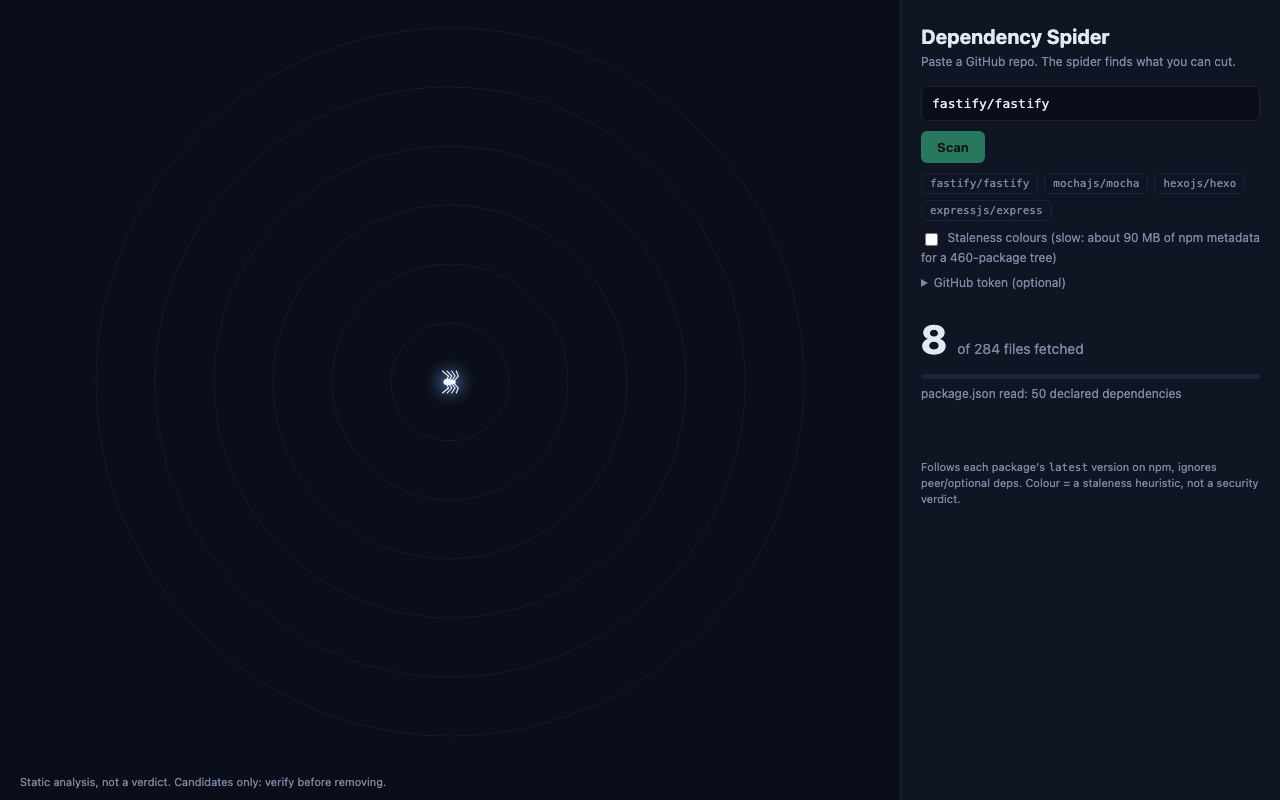
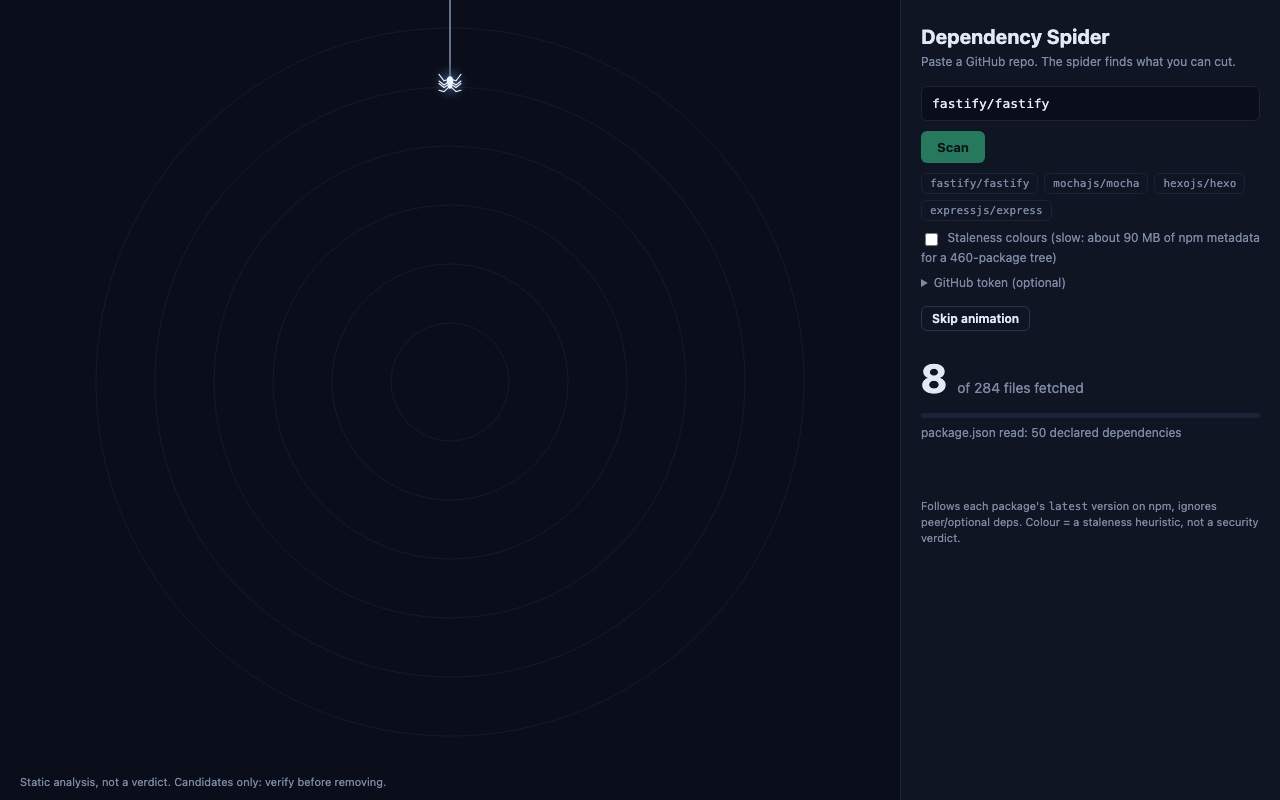
Docs sync for the animation rework: incremental layout, choreography, two-layer canvas, perf link; delete unused layout.js; regenerate screenshots

diff --git a/src/choreo.js b/src/choreo.js
@@ -28,7 +28,7 @@ const hash = (s) => { let h = 2166136261; for (let i = 0; i < s.length; i++) { h
 
 // Fixed radial layout that can be built incrementally. A package gets an angular slot inside its parent's wedge
 // (equal share per child announced by that parent) the moment it is delivered, and keeps it. This is a
-// different trade-off from layout.js (sectors by subtree size, needs the finished tree): here the spider can start
+// different trade-off from a layout by subtree size (which needs the finished tree): here the spider can start
 // building while npm is still answering, and nothing ever re-flows.
 export class WebLayout {
   constructor(rootNames) {

diff --git a/docs/WALKTHROUGH.md b/docs/WALKTHROUGH.md
@@ -20,21 +20,21 @@ You paste a GitHub repo. The app reads `package.json` and up to 300 source files
 
 **`graph.js`.** The math. `reachable` finds everything reachable from the manifest; `shedReport` computes, per candidate and for all together, how many packages disappear; `uninstallCommand` builds the `npm uninstall` lines.
 
-**`layout.js`.** A pure function that places each package on a ring by depth and gives each subtree an angular sector proportional to its size.
+**`choreo.js`.** The animation's brain, pure (no DOM, no clock). Input: the packages in the order the registry crawl delivers them, plus the canvas geometry. `WebLayout` gives each package a fixed slot inside its parent's wedge the moment it arrives, and never moves it. `Planner` decides where the spider goes next using only delivered packages and only existing threads: lay a thread to a waiting child, else walk back along threads to the nearest anchored package with work, spokes (declared dependencies) first; with nothing ready it returns nothing and the spider waits. Output: steps (`drop`, `lay`, `return`) with paths, speeds and rests; `planWeb` builds a whole timeline for tests. It exists so the part that decides what the spider does can be unit-tested without a canvas.
 
-**`viz.js`.** The canvas: rings, nodes easing into position, the spider sprite, the prune animation, the share image. Glow comes from pre-rendered sprites (no per-node `shadowBlur`), it handles `devicePixelRatio`, and it respects reduced motion.
+**`viz.js`.** Draws what `choreo.js` decides, on two stacked canvases: a static layer (rings, anchored threads and packages) that is only drawn into when the spider anchors something or packages are removed, and a small live layer (spider, thread being laid, glints, snip flashes, falling packages) cleared with a dirty rectangle. Threads are batched in `Path2D` strokes and packages in 16 colour buckets; no `shadowBlur` or filters; DPR clamped to 2; time-based with a clamped delta; fixed effect pools; idle in a hidden tab. It also runs the prune choreography and builds the share image from both layers.
 
 **`pipeline.js`.** Orchestration shared by the browser and the Node scripts: URL, file list, `package.json`, files, imports, crawl, classification, peer-dependency check, shed numbers. It emits progress events the UI listens to.
 
 **`report.js`, `cards.js`.** Text output (plain report, PR description) and the candidate card, including the "cannot see packages loaded by name at runtime" caveat under every candidate and the lower-confidence badge.
 
-**`app.js`.** The browser wiring: form, progress panel, cards, buttons (copy, PR text, download image), error messages and resetting state between scans.
+**`app.js`.** The browser wiring: form, progress panel (written at most 10 times a second from what the spider has built), cards, buttons (copy, PR text, download image, Skip animation, Replay animation), error messages and resetting state between scans. It also plays a recorded scan (`?fixture=`), the same path Replay uses.
 
-**`scripts/`.** `acceptance.mjs` (checks known repos), `validate.mjs` (compares with depcheck on 13 repos), `depcheck-installed.mjs` (repeats the comparison after installing dependencies).
+**`scripts/`.** `acceptance.mjs` (checks known repos), `validate.mjs` (compares with depcheck on 13 repos), `depcheck-installed.mjs` (repeats the comparison after installing dependencies), `record-fixture.mjs` and `perf.mjs` (record a scan, then measure animation frame times on it without the network). `src/fixture.js` turns a result into JSON and back.
 
 ## The five design decisions that matter
 
-1. **Fixed radial layout, not a force simulation.** My earlier attempt with a force-directed layout exploded at 400+ nodes. A fixed layout (ring = depth, sector size = subtree size) is deterministic, costs one pass, and never jitters. Nodes ease from their parent to their slot, so it still looks alive.
+1. **Fixed radial layout, placed incrementally, not a force simulation.** My earlier attempt with a force-directed layout exploded at 400+ nodes. The layout is fixed: ring = depth, and each package gets a slot inside its parent's wedge (an equal share per child) the moment the crawl delivers it, and keeps it. Incremental is the point: the spider has to start building while npm is still answering, and my first version, which sized sectors by subtree size, needs the finished tree, so I removed it. The cost is real: equal shares ignore how big a branch will be, so heavy branches get crowded wedges (the long columns in fastify's web). A small radial stagger helps; it does not solve it.
 
 2. **The dependency maps are excluded from the mention search.** "Mentioned in scripts or config counts as used" is only meaningful if the search text excludes `dependencies`, `devDependencies` and similar. If you search them, every dependency mentions itself and you find zero ghosts with no error. There is a unit test for exactly this trap.
 
@@ -45,6 +45,27 @@ You paste a GitHub repo. The app reads `package.json` and up to 300 source files
 5. **Shed = reachable before minus reachable after.** The number of packages a removal saves is not "the package and its dependencies": shared dependencies stay. So I compute everything reachable from the manifest, remove that one entry, recompute, and subtract. If another package still depends on the candidate, the shed is 0 and the UI names that package ("still needed by neostandard"). The total for all candidates is computed together, so overlaps are not double-counted.
 
 A sixth, smaller one: over-counting usage is the safe direction. Block comments are not stripped (globs like `lib/*.js` would swallow real imports), because a missed import creates a false ghost while an extra import only hides one.
+
+## How the animation works
+
+Say it aloud:
+
+1. The animation is driven by the real crawl: a small planner decides where the spider goes, it is not a canned video.
+2. When `package.json` is read, the spider drops from the top on a silk line and anchors the hub, which is the repo itself.
+3. As the npm crawl delivers packages, each one gets a fixed slot on its ring, inside its parent's wedge, and never moves.
+4. The spider only walks to packages that have been delivered, and the thread behind it is exactly the path it walked, so the thread tip is the spider.
+5. It lays the spokes first (your declared dependencies), then fills each wedge; to get to the next job it walks back along threads that already exist, faster.
+6. If the crawl has not delivered anything yet, it hangs and sways, and the panel says it is waiting for npm.
+7. The first fifteen packages go at natural speed so you can see what it does; after that it speeds up, so about 460 packages take around 23 seconds.
+8. In the prune phase it walks back to the hub, snips a candidate's thread with a flash, and only the packages in the shed report grey out, fall and fade, while the counter ticks down; a package that is still needed stays.
+9. Drawing uses two canvases: a static one that is drawn into only when something is added or removed, and a small live one for the few things that move.
+10. Skip jumps to the finished web, Replay re-runs from cached results, and reduced-motion users get the end state. I measured it in headless Chromium on one machine (`results/animation-perf.md`): a retina screen with a slowed CPU went from about 83 ms to 16.7 ms per frame at the 95th percentile, with rare hitches up to 150 ms left.
+
+**Why two canvas layers?** Almost all of the web is static, and repainting about 2,000 threads and 900 dots every frame was the cause of the lag: the profile of the old code at DPR 2 showed 74% of the time in native rasterization and only about 0.3 s in all my drawing code. Now the static layer is drawn into once per anchored package, and the live layer is cleared with a small dirty rectangle. The cost: removing packages in the prune redraws the static layer once per cut, which causes rare single-frame hitches.
+
+**Why time-based animation?** Movement per frame is speed times the elapsed time, so the duration is the same at 60 Hz, 120 Hz or after a slow frame. The elapsed time is clamped (50 ms) so a stalled or backgrounded tab does not make the spider teleport, and the legs advance by distance travelled, not by time, so they do not strobe at high speed.
+
+**Why does the spider accelerate?** Two requirements pull in opposite directions: the viewer has to see what the spider does, which needs natural speed, and a 460-package web at natural speed would take minutes. So the first 15 packages are at natural speed, then the speed multiplier grows with each package up to 14x, which fits the whole build in about 25 to 30 seconds. The honest cost is that the late phase reads as a streak, not as walking.
 
 ## The three results to be ready to explain
 
@@ -70,7 +91,7 @@ A sixth, smaller one: over-counting usage is the safe direction. Block comments 
 
 **7. Is the tree real?** It is a model. It follows the `latest` version of each package, ignores semver ranges and ignores peer and optional dependencies, so it is not your lockfile. Depth is capped at 6 and 900 packages.
 
-**8. Why not use a force-directed graph?** It exploded with 400+ nodes in an earlier attempt. A fixed radial layout is deterministic and cheap.
+**8. Why not use a force-directed graph, and why not size sectors by subtree size?** A force layout exploded with 400+ nodes in an earlier attempt, and it never settles, so the spider could not walk to a stable place. Sizing sectors by subtree size is tidier but needs the finished tree, which the spider cannot have while npm is still answering. So the layout is fixed and incremental. The trade-off is crowded wedges on heavy branches.
 
 **9. What happens with a huge repo or rate limits?** Up to 300 source files are read, tests last, and the UI warns when the cap is hit. GitHub's unauthenticated API allows 60 requests per hour; a scan uses 1 or 2, there is an optional token field, and a readable rate-limit message with the reset time. The rate-limit path is unit-tested with fake responses; I have not triggered it in a browser.
 
@@ -78,4 +99,4 @@ A sixth, smaller one: over-counting usage is the safe direction. Block comments 
 
 ## Things I have not verified
 
-Firefox, Safari and a real phone; the GitHub Pages workflow and the hosted site; the 900-package cap against the real registry; Node 20; and accuracy in any statistical sense.
+Firefox, Safari and a real phone; the animation's frame times on any machine but this one (and any real GPU); the GitHub Pages workflow and the hosted site; the 900-package cap against the real registry; Node 20; and accuracy in any statistical sense.

diff --git a/README.md b/README.md
@@ -48,6 +48,14 @@ node scripts/acceptance.mjs [fastify|hexo|mocha|all]
 node scripts/validate.mjs [owner/repo ...]      # writes results/validation.md, needs git + npx
 ```
 
+Animation performance on a recorded scan (no network; needs Playwright installed somewhere, see the header of the script):
+
+```sh
+node scripts/record-fixture.mjs owner/repo name                  # once, needs network: scripts/fixtures/<name>.json
+PW_DIR=<playwright folder> node scripts/perf.mjs debug --dpr=2 --throttle=4
+# the app can also replay a fixture: http://localhost:8000/?fixture=scripts/fixtures/postcss.json
+```
+
 ## How it works
 
 | Step | File | What happens |
@@ -57,7 +65,22 @@ node scripts/validate.mjs [owner/repo ...]      # writes results/validation.md, 
 | 3 | `analyze.js` | A dependency is **used** if imported anywhere, or mentioned (token-bounded) in `scripts`, in any other `package.json` key except the dependency maps, or in config files; also by its registry bin names and tool shorthands. Not imported and not mentioned = **ghost**. |
 | 4 | `registry.js` | BFS crawl of the npm registry from all declared deps (depth ≤ 6, cap 900 packages, 8 parallel requests, retry with backoff). |
 | 5 | `graph.js` | Reachability before/after removing each ghost and all ghosts together. |
-| 6 | `layout.js`, `viz.js` | Fixed radial layout (rings = depth, angular sectors proportional to subtree size, no force simulation), canvas animation. |
+| 6 | `choreo.js` | The animation's brain (pure, no DOM): an incremental fixed radial layout and the spider's planner. See "The animation" below. |
+| 7 | `viz.js` | Draws it on two stacked canvases (a static web layer and a small live layer). |
+
+## The animation
+
+The spider builds the web; it is not a canned video. `choreo.js` is a pure module (no DOM, no clock):
+
+- **Input:** the packages in the order the npm crawl delivers them (name, depth, parent, dependency list) and the canvas geometry.
+- **Layout (`WebLayout`):** a fixed radial layout that is built incrementally. Ring = depth. Each package gets an angular slot inside its parent's wedge (an equal share per child that parent announced) the moment it is delivered, and never moves afterwards, so the spider can start before the crawl finishes. **The limit:** equal shares ignore how big a branch will become, so heavy branches get crowded wedges (the long columns in fastify's web). A small radial stagger helps but does not fix it.
+- **Planner:** decides where the spider goes next using only delivered packages, only along threads that exist. It lays the spokes (declared dependencies) first, then fills each wedge; to reach more work it walks back along existing threads, faster; with nothing ready it returns nothing, so the spider hangs and waits for npm instead of wandering. The first 15 packages run at natural speed, then it accelerates (up to 14x) so a 464-package tree takes about 23 s.
+- **Output:** steps (`drop`, `lay`, `return`) with paths, speeds and rests, and `planWeb` for a whole timeline.
+- **Invariants (unit-tested in `test/choreo.test.mjs`):** a package exists only after the spider reached it and after its parent; the thread tip is exactly the spider's position; consecutive steps join with no jump; a return is a chain of parent/child pairs; a package delivered after the spider left its parent is still reached; the build fits the time budget.
+
+`viz.js` draws it on **two stacked canvases** so a frame never repaints the whole web: a static layer (rings, anchored threads and packages) that is only drawn into when the spider anchors something or packages are removed, and a small live layer (spider, thread being laid, dew glints, snip flashes, falling packages) cleared with a dirty rectangle. Threads are batched into `Path2D` strokes, packages into 16 colour buckets; no `shadowBlur`, no filters, pre-rendered glow sprites, devicePixelRatio clamped to 2, time-based movement with a clamped delta, no allocation in the frame loop, no work in a hidden tab, page counters written at most 10 times a second. In the prune phase the spider walks existing threads to the hub, snips a candidate's thread (flash, two ends recoil), and only packages in the shed report grey out, fall and fade; still-needed packages stay. **Skip animation** jumps to the finished state, **Replay animation** re-runs from the cached result, and `prefers-reduced-motion` shows the end state.
+
+**Performance** was measured in headless Chromium on one machine, on a recorded 682-package scan: frame-interval p95 in the worst case (retina DPR 2, 4x CPU throttle) went from 83 ms (build) and 100 ms (prune) to 16.7 ms and 16.8 ms, with rare single-frame hitches of up to 150 ms still present. Method, all numbers, the root cause and what is still off: [results/animation-perf.md](results/animation-perf.md). Those numbers are not from a real GPU, Safari, Firefox or a phone.
 
 Other findings: **misplaced** (a prod dependency only used from tests/examples/scripts) and **phantom** (imported but not declared) appear under "Also found".
 
@@ -80,6 +103,7 @@ Fragility colour: `min(1, 0.6*min(staleDays/1460,1) + 0.4*(maintainers==1) + 0.3
 - **Names resolved at runtime from strings are invisible**: view engines, plugins and loaders. Confirmed by removal tests: express's `hbs` (6 tests fail without it) and postcss's `@size-limit/preset-small-lib` (size-limit loads it by name; `test:size` fails without it). Karma auto-loads `karma-*` packages, and debug's `karma.conf.js` names `karma-browserify`, `karma-mocha` and (through the `ChromeHeadless` launcher) `karma-chrome-launcher` only by short name, so those three debug candidates are very probably false positives too (config read, tests not run: [results/karma-note.md](results/karma-note.md)). Treat every candidate as something to verify.
 - **Config keys.** A top-level package.json key counts as a mention of a package only when its name is exactly a declared package's name (`"simple-git-hooks": {...}`, `"lint-staged": {...}`). Metadata keys and the dependency maps never count. A tool configured under a different key is only found if its name appears in the value. (The exact-key rule was added after the postcss removal test showed `simple-git-hooks` was wrongly flagged.)
 - **"Lower confidence" badge is a heuristic and is not validated.** A candidate whose scope equals a used package's name (`@size-limit/...` with `size-limit`) or whose name starts with `<used package>-` (`karma-mocha` with `karma`) is shown as "likely loaded by <parent> by name". It is a general rule (no list of names; parents shorter than 4 characters are ignored), but I wrote it after seeing the postcss and debug results, so those results are not independent evidence for it. In the 13-repo run it marks 8 of the 13 candidates (fastify's two `@stylistic` packages via `eslint`, postcss's size-limit preset, axios's `@vitest/browser` via `vitest`, and four in debug); I have not checked whether those are the right ones.
+- **Crowded wedges.** The animation's layout is incremental (each package gets an equal share of its parent's wedge when it is delivered), so heavy branches look denser than a layout by subtree size would. Cross threads (shared dependencies) are drawn once, faintly, after the build, not laid by the spider.
 - **Package cap of 900** and depth 6; the UI warns when reached.
 - **JS/TS only, root `package.json` only.** `workspaces` stops with a monorepo message.
 - **GitHub API limit:** 60 requests/hour unauthenticated.
@@ -91,10 +115,10 @@ Fragility colour: `min(1, 0.6*min(staleDays/1460,1) + 0.4*(maintainers==1) + 0.3
 **Verified (I ran it, 2026-10-16, on this machine):**
 
 - Buttons, in headless Chromium on postcss/postcss: Copy command puts the exact command on the clipboard (and shows "Copy failed" when the clipboard is denied), PR text fills a box and copies it, Download image produces a valid 1200x630 PNG. A second scan without reload and an invalid URL after a good scan both reset the UI cleanly.
-- 61 offline unit tests pass (`npm test`, also with `fetch` replaced by a function that throws): every trap listed above has a test, including config-key mentions, the dependency-map exclusion, the caveat line and the lower-confidence rule (built-ins, bare `test`, glob with `/*`, dependency-map trap, `tap` vs `tape`, bin names, shorthands, `.bin` paths, misplaced, phantom, own name, file-cap ranking, URL forms, fake-registry BFS/depth/cap/scoped names/404/cycles, shed math with shared dependencies, still-needed-by, overlapping combined shed).
+- 70 offline unit tests pass (`npm test`, also with `fetch` replaced by a function that throws): every trap listed above has a test, including config-key mentions, the dependency-map exclusion, the caveat line, the lower-confidence rule and the animation choreography invariants (built-ins, bare `test`, glob with `/*`, dependency-map trap, `tap` vs `tape`, bin names, shorthands, `.bin` paths, misplaced, phantom, own name, file-cap ranking, URL forms, fake-registry BFS/depth/cap/scoped names/404/cycles, shed math with shared dependencies, still-needed-by, overlapping combined shed).
 - The GitHub trees API accepts `HEAD` (HTTP 200, `{sha,url,tree,truncated}`, `access-control-allow-origin: *`, 60/hour limit; HTTP 404 for a missing repo).
 - Acceptance on live repos (`scripts/acceptance.mjs`): see the next section.
-- The UI in a real headless Chromium (Playwright): intro, scan, crawl, prune and summary phases for fastify and mocha, zero console errors, no horizontal overflow at 1280 px and at 390 px (screenshots in `docs/`). Error messages for a bad URL, missing repo, repo without `package.json` and a monorepo (babel/babel) were produced by the real pipeline.
+- The UI in a real headless Chromium (Playwright): intro, scan, crawl, prune and summary phases for postcss and fastify (screenshots regenerated after the animation rework, 2026-10-16), zero console errors, no horizontal overflow at 1280 px and at 390 px (screenshots in `docs/`). Error messages for a bad URL, missing repo, repo without `package.json` and a monorepo (babel/babel) were produced by the real pipeline.
 
 **Not verified:**
 

diff --git a/DECISIONS.md b/DECISIONS.md
@@ -11,3 +11,9 @@
 - `validate.mjs --reuse` keeps depcheck's earlier output and re-runs only the scanner side, because depcheck does not depend on this code and three clones were later npm-installed (a fresh no-install run would be contaminated). `depcheck-installed.mjs --recompute` does the same for the installed comparison.
 - The depcheck "installed" comparison used `npm install --ignore-scripts --legacy-peer-deps` in the clones (3 repos only).
 - Every demo number in docs comes from a dated run; the UI contains none.
+- Animation rework: the old viz repainted the whole web every frame; the profile showed the cost was native rasterization, not JavaScript (results/animation-perf.md). New design: a pure choreography module (src/choreo.js), a static canvas plus a small live canvas with dirty-rect clearing, time-based movement with a clamped delta, fixed effect pools, DPR clamped to 2, counters written at most 10 times a second.
+- Layout for the animation is incremental: each package takes an equal share of its parent's wedge when the crawl delivers it and never moves, so the spider can build while npm is still answering. This replaced the layout by subtree size (it needs the finished tree). Known cost: crowded wedges on heavy branches. `src/layout.js` and its test were deleted because nothing else used them.
+- Spider rules: nothing exists before the spider reaches it, the thread tip is the spider, returns walk existing threads only, spokes (declared dependencies) first, with nothing ready it waits and never wanders. Pace: first 15 packages at natural speed, then up to 14x, so 464 packages take about 23 s and 682 about 30 s.
+- Cross threads (shared dependencies) are drawn once, faintly, after the build; they are the one thing the spider does not lay.
+- Skip animation jumps to the finished state (including the prune); Replay re-runs from the cached result; both use the same path as `?fixture=` playback.
+- Animation performance is measured on recorded scans (scripts/fixtures/*.json) in headless Chromium, with DPR 2 and 4x CPU throttle as the stress case. Numbers are from one machine, not a real GPU, Safari, Firefox or a phone.

diff --git a/results/animation-perf.md b/results/animation-perf.md
@@ -66,7 +66,7 @@ Screenshots every 0.5 s of the build and the prune were captured on the postcss 
 
 ## Honest list of what still looks off or is unverified
 
-- **Crowded wedges.** The layout has to place a package the moment it arrives, before the tree's final shape is known, so each package gets an equal share of its parent's wedge. Heavy branches (the long columns at the bottom and left of the fastify web) are denser than the old subtree-size layout made them. A small radial stagger helps but does not fix it. `layout.js` (sectors by subtree size) is no longer used by the app.
+- **Crowded wedges.** The layout has to place a package the moment it arrives, before the tree's final shape is known, so each package gets an equal share of its parent's wedge. Heavy branches (the long columns at the bottom and left of the fastify web) are denser than the old subtree-size layout made them. A small radial stagger helps but does not fix it. The earlier layout by subtree size (`layout.js`) needed the finished tree, so it was deleted along with its test.
 - **Very fast late phase.** After the first 15 packages the spider accelerates up to 14x so 500 packages fit in about 25 s; at the top speed it covers several hundred pixels a second per frame and reads as a streak, not as walking. That is the requested trade-off, but it is not "natural speed".
 - **Cross threads** (dependencies shared between packages) are drawn once, faintly, after the build finishes, not laid by the spider. They are the only things that appear without the spider having visited them.
 - **Pop-in of the static redraws** and the 83 to 150 ms hitches listed above.
